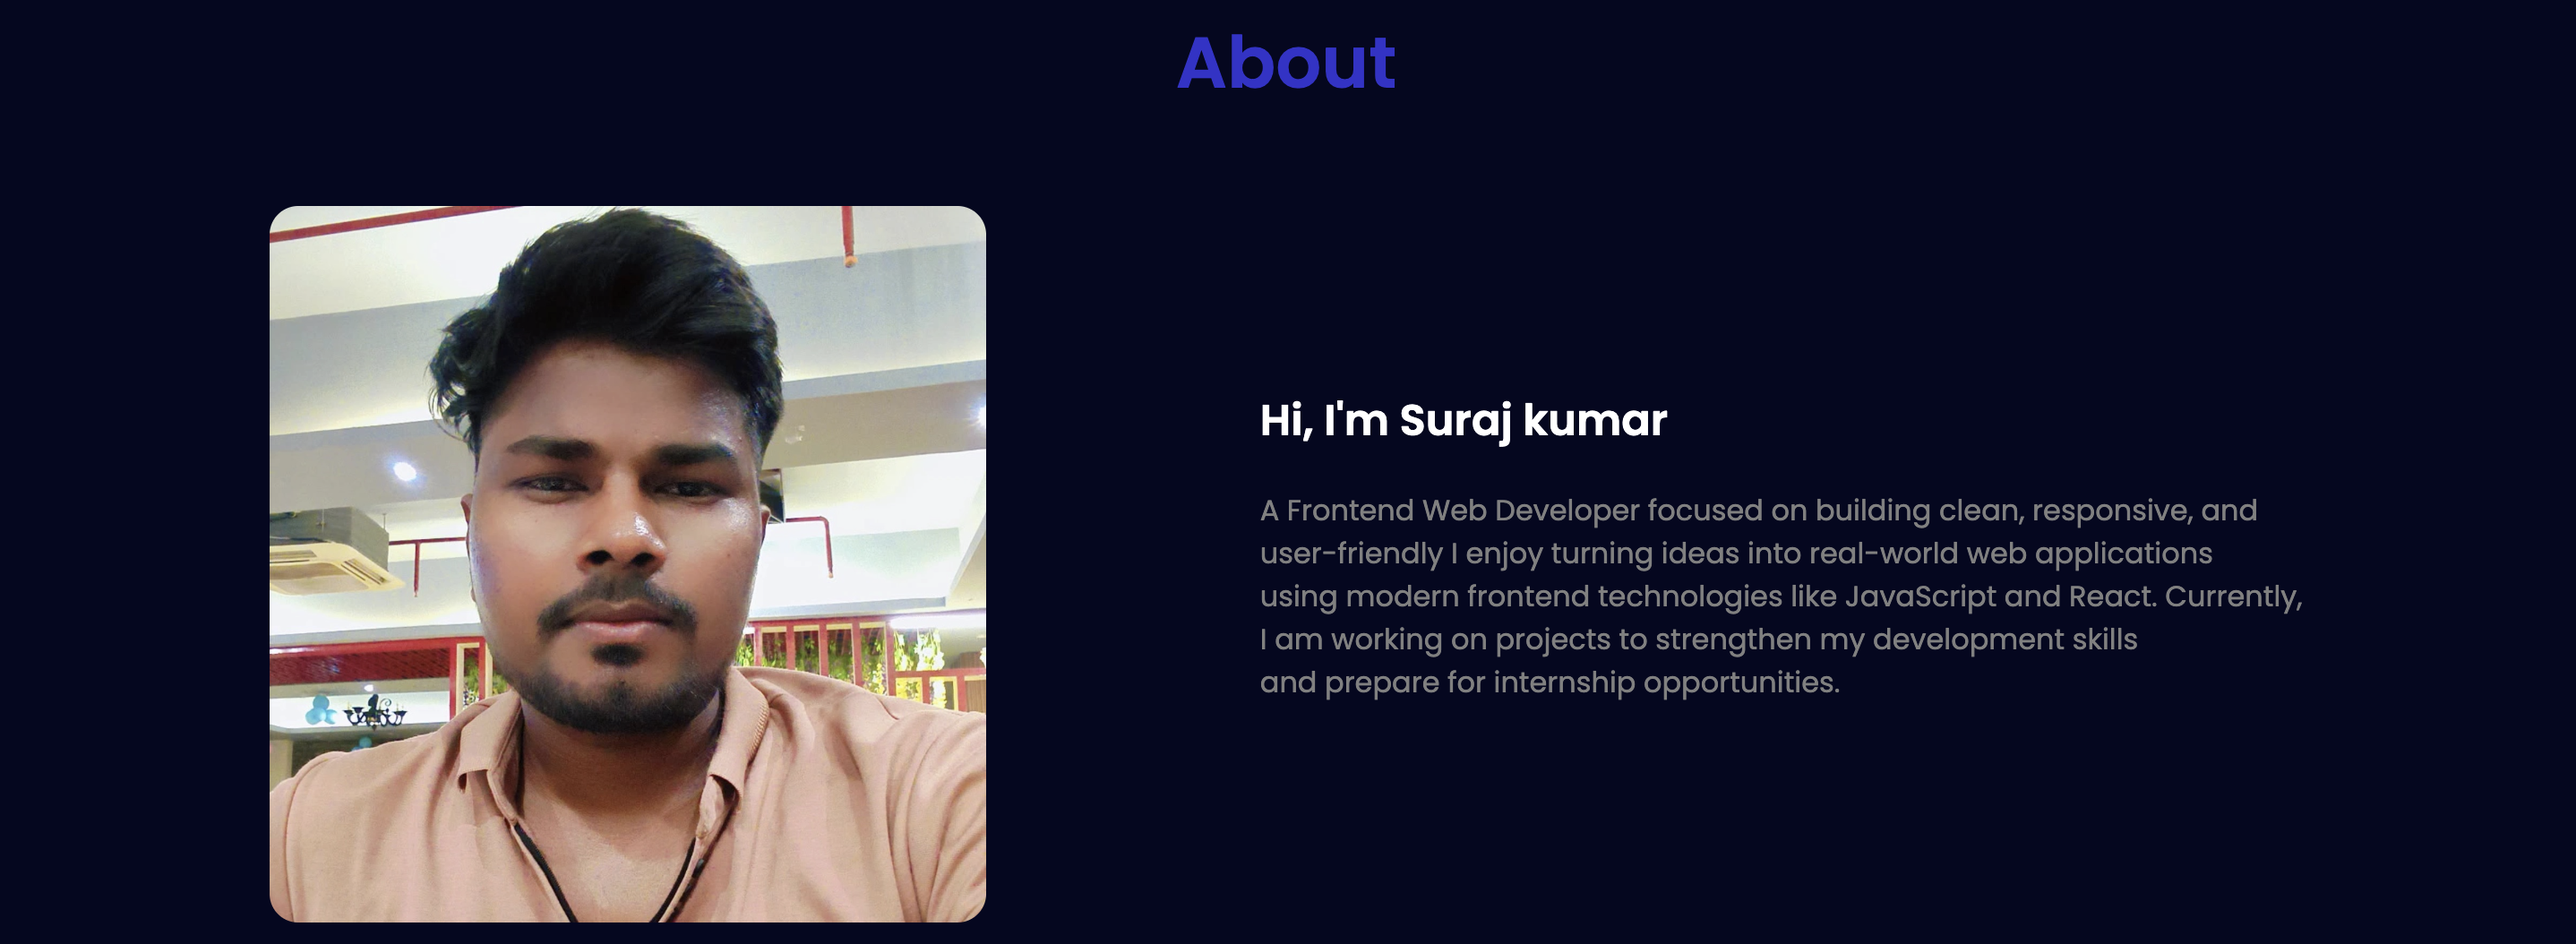
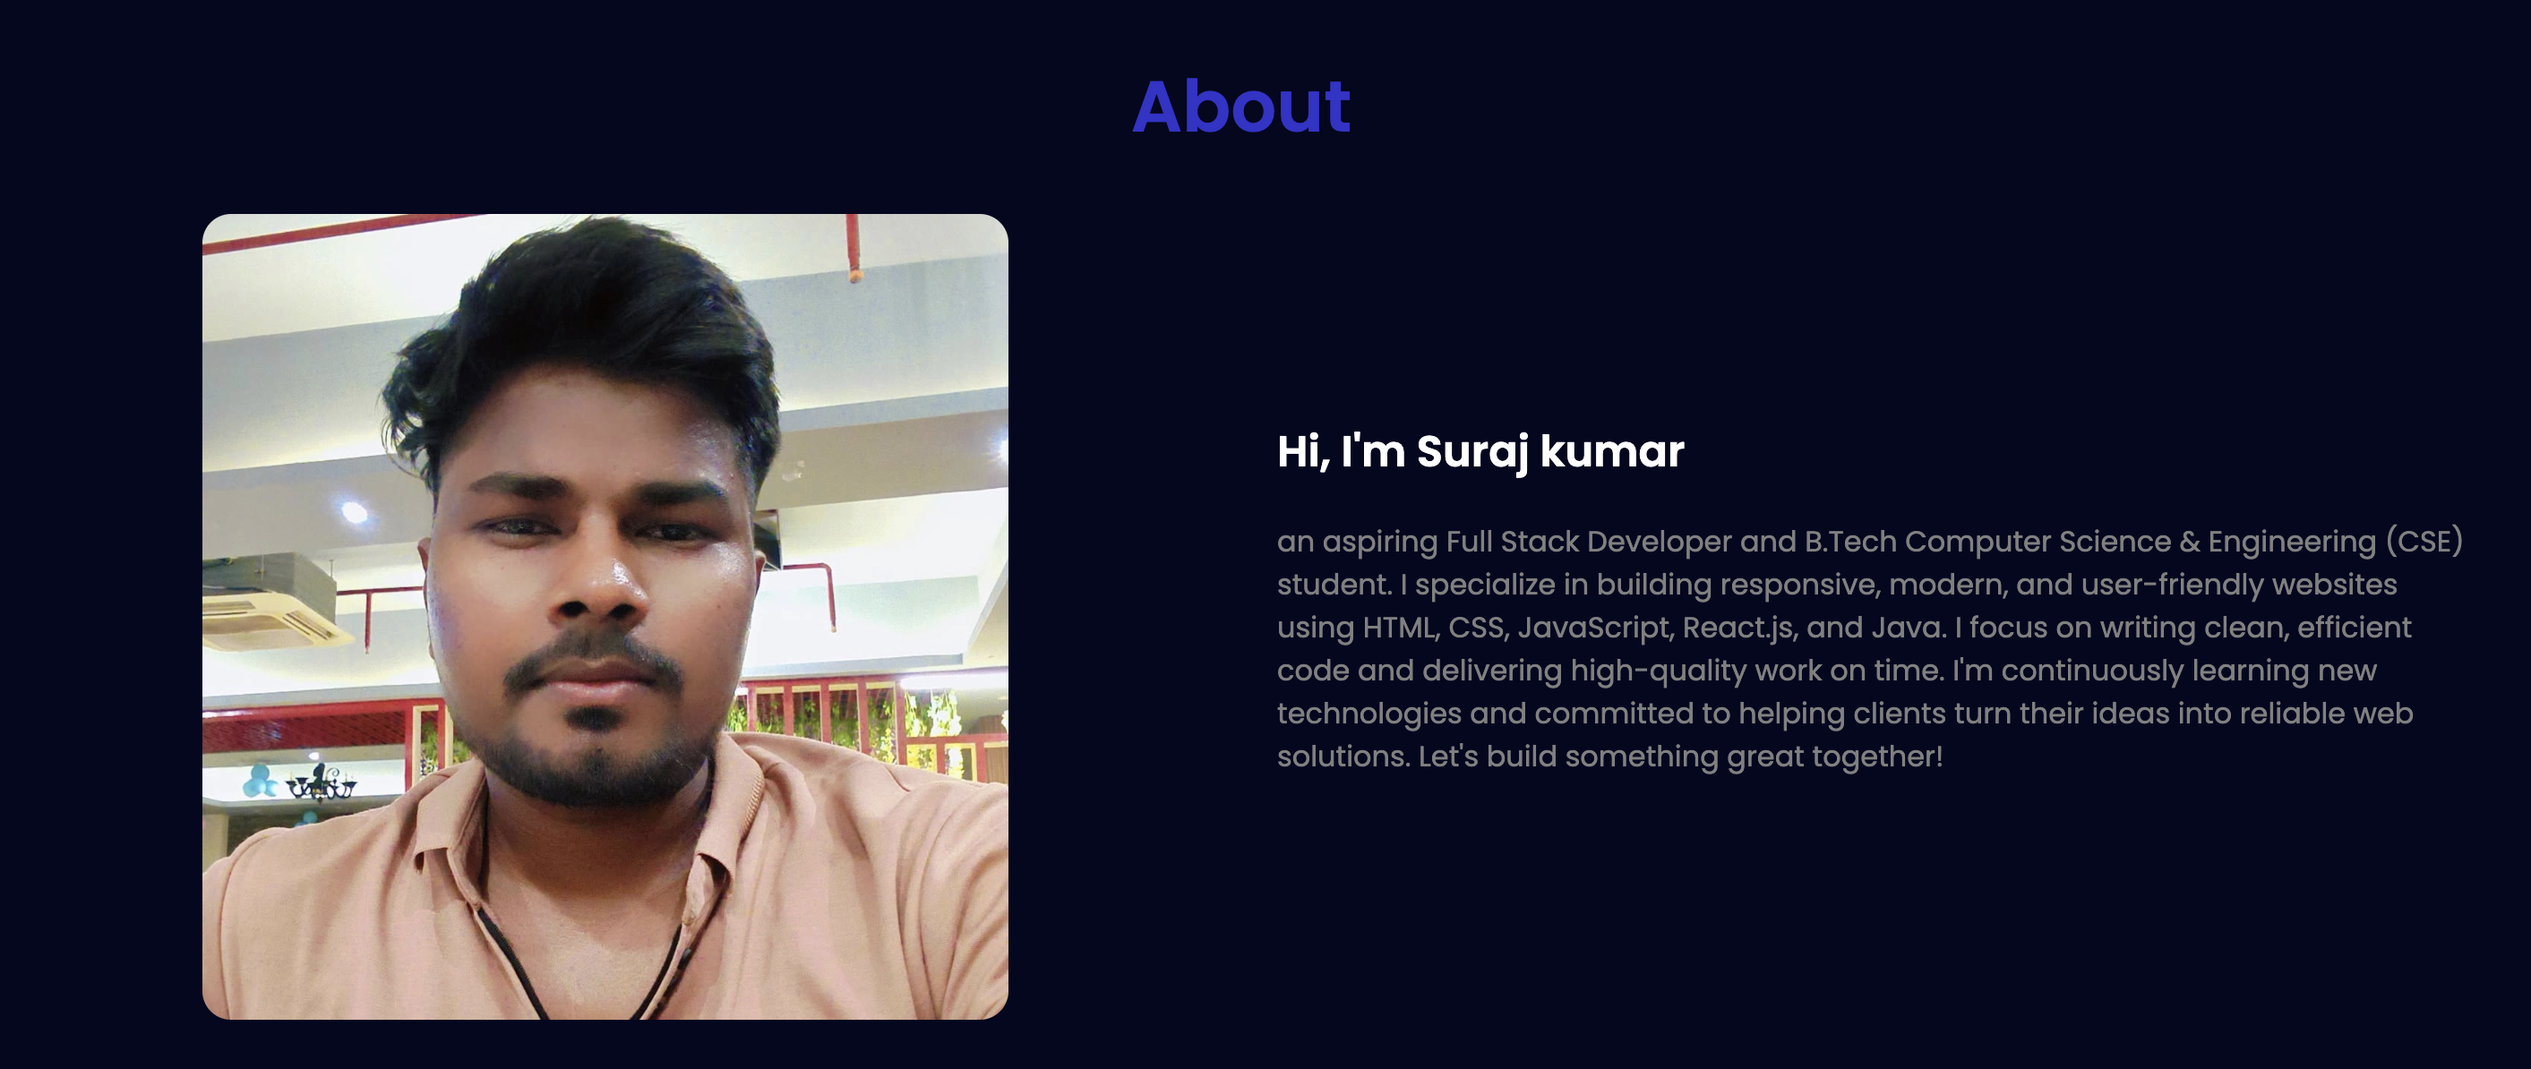
commit

Changed region(s): [[0.0623, 0.1822, 0.4048, 1.0], [0.4671, 0.3947, 0.9653, 0.759], [0.436, 0.0304, 0.5605, 0.1214]]

diff --git a/README.md b/README.md
@@ -29,17 +29,19 @@ A modern and responsive personal portfolio website built using HTML, CSS, and Ja
 
 ## 📂 Projects Included
 
-- 🌦 Weather App
 - 🎬 Advance Digital Clock
+- 🌦 Weather App
 - 🧮 Responsive Project
-- 📋 Rnadom Password generator
-- ▶ Temprature Converter
+- 📋 E-commerce website
+- ▶ Calculator
+- 🧮 Student Productivity Ecosystem website
+- 🎬 Music Website
 
 ---
 
 ## 🌐 Live Demo
 
-https://app.netlify.com/projects/suraj-portfol/overview
+https://personal-portfolio-lac-seven-18.vercel.app/
 ---
 
 ## 📸 Screenshot
@@ -57,7 +59,7 @@ https://app.netlify.com/projects/suraj-portfol/overview
 
 ## 📫 Contact
 
-- GitHub: https://github.com/Suraj1234-wq
+- GitHub: https://github.com/CodeNexus456
 - LinkedIn: https://www.linkedin.com/in/suraj-kumar-7a104032b/
 - Email: ksurajkumar336@gmail.com
 
